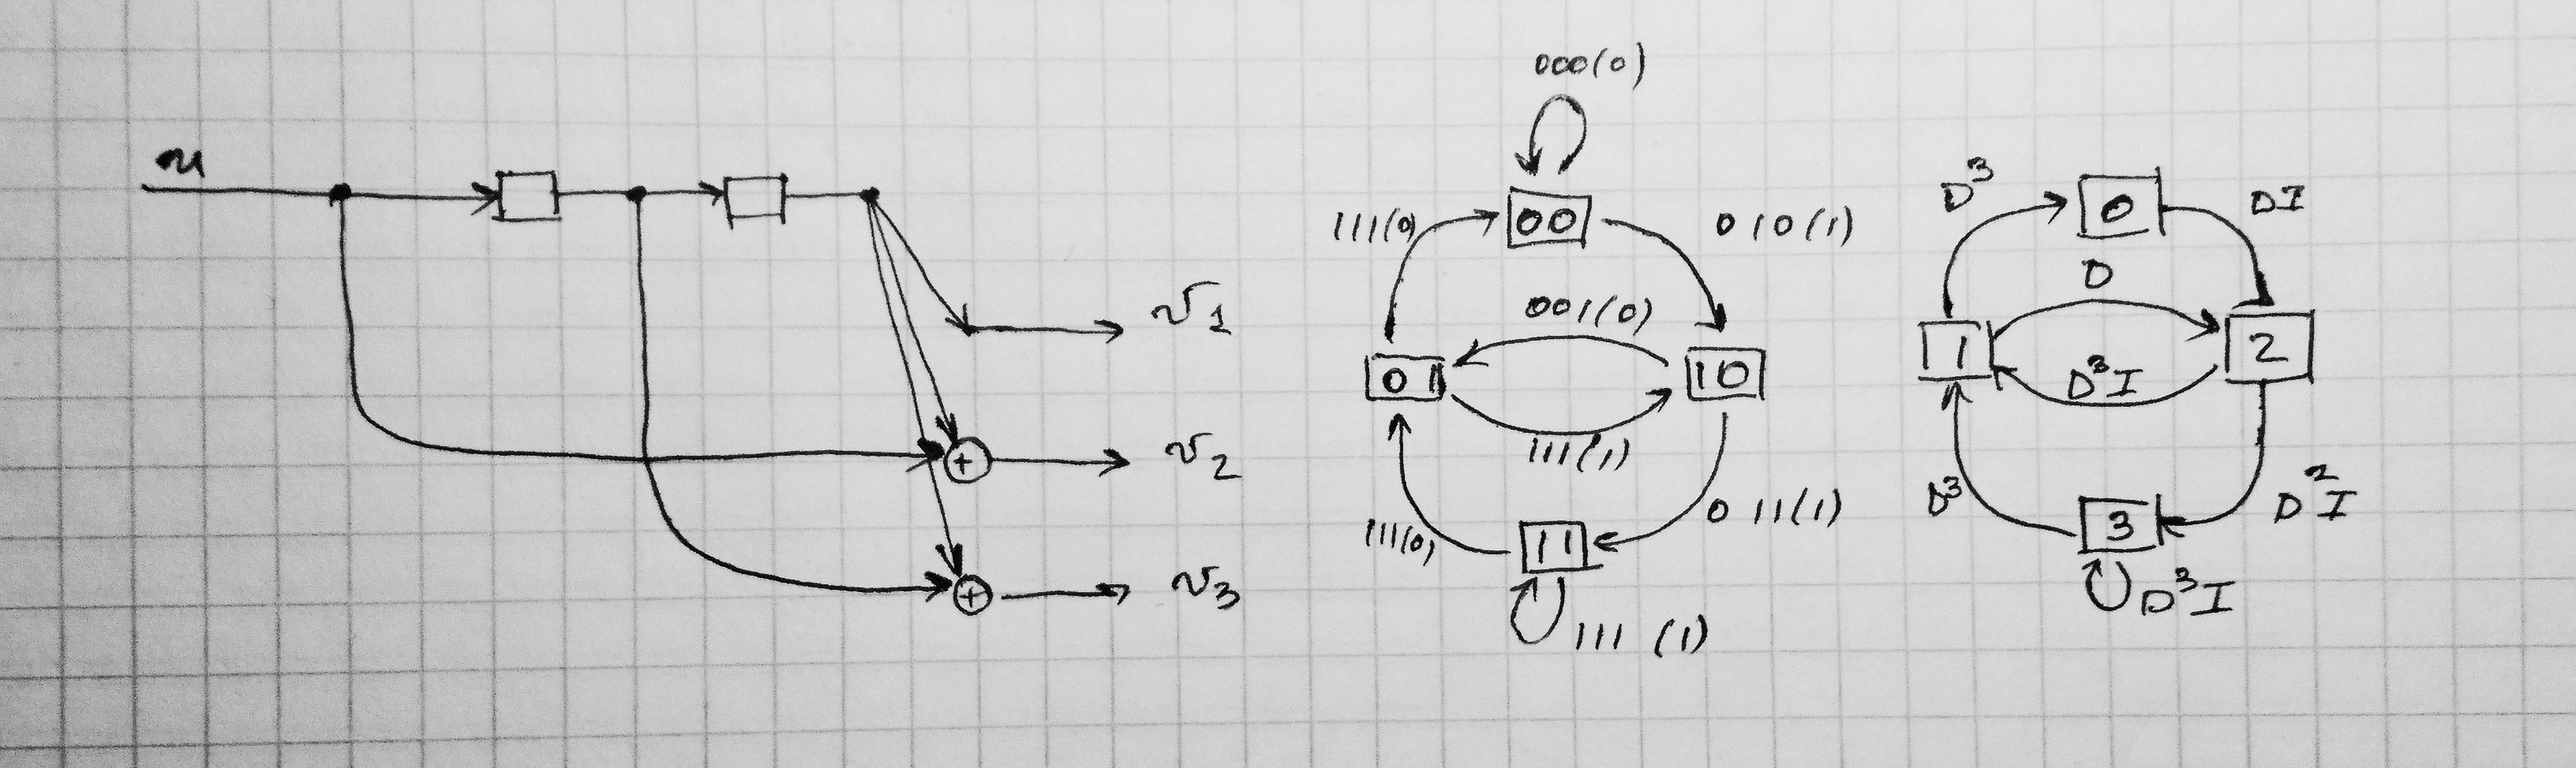
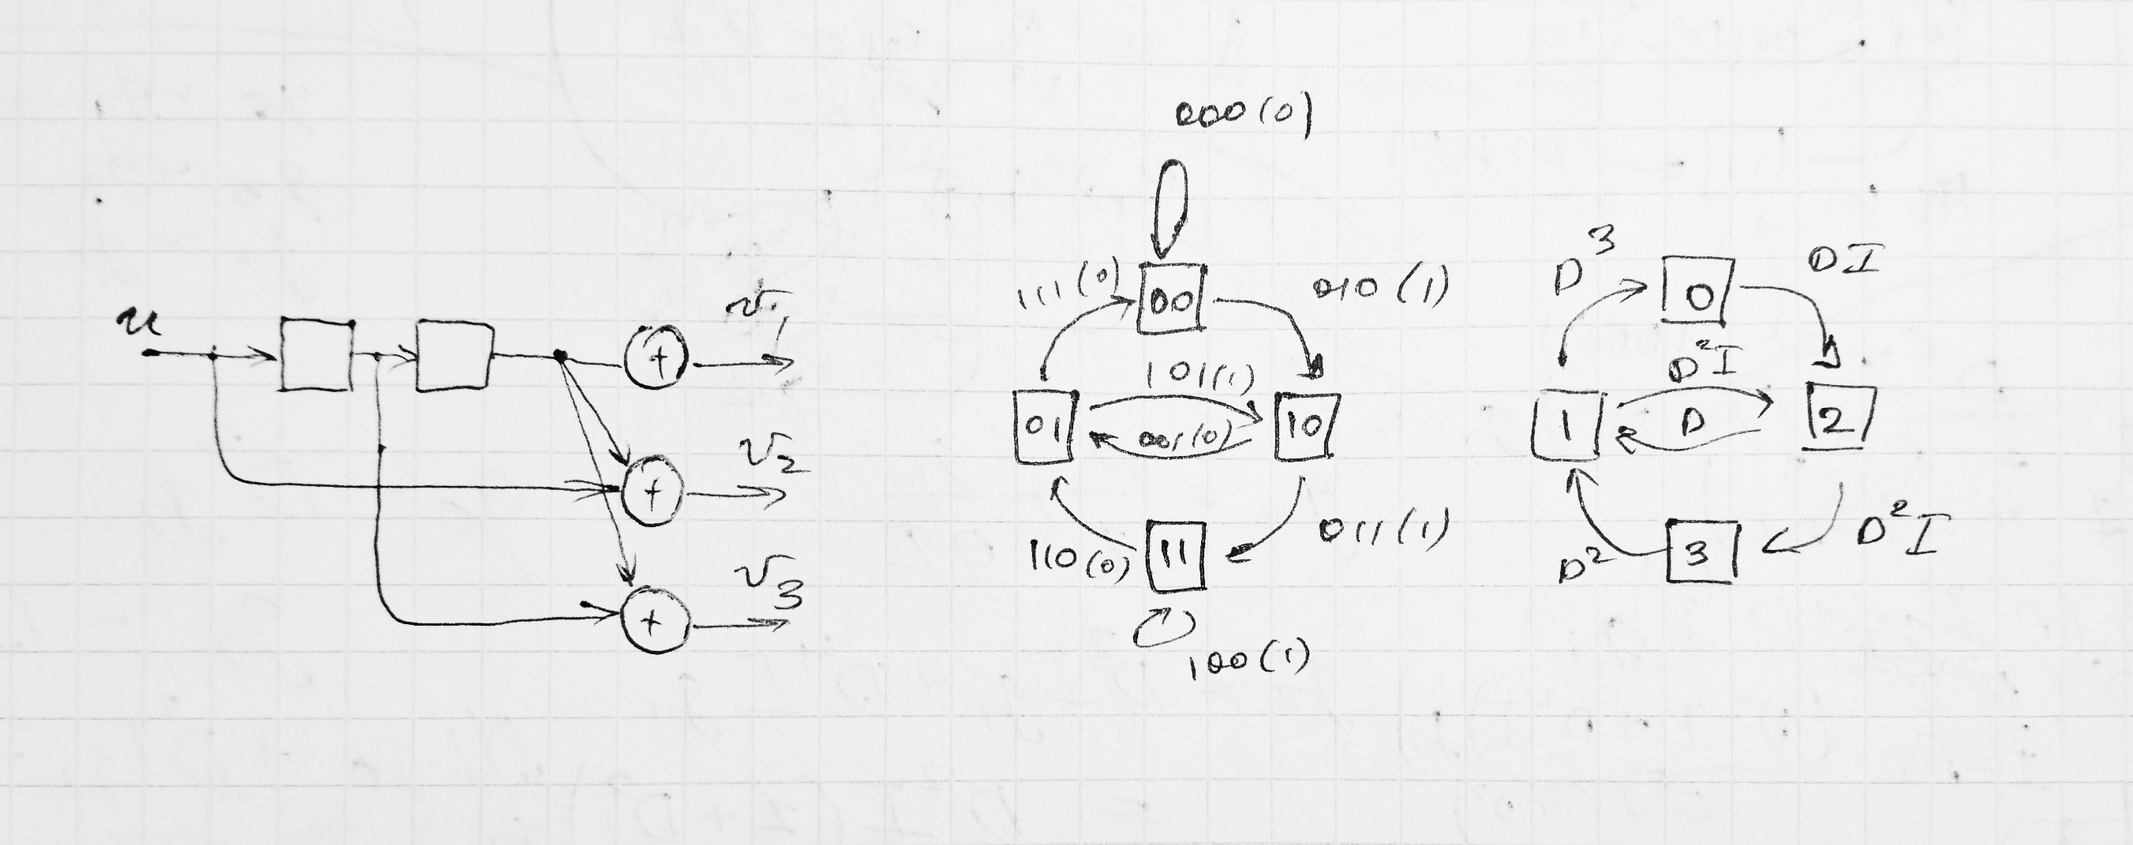
WIP

diff --git a/text/Part478.html b/text/Part478.html
@@ -3,7 +3,7 @@
 "http://www.w3.org/TR/xhtml1/DTD/xhtml1-strict.dtd">
 <html xmlns="http://www.w3.org/1999/xhtml" lang="en" xml:lang="en">
 <head>
-<!-- 2018-06-15 Fri 15:11 -->
+<!-- 2018-06-20 Wed 12:28 -->
 <meta http-equiv="Content-Type" content="text/html;charset=utf-8" />
 <meta name="viewport" content="width=device-width, initial-scale=1" />
 <title>Теория информации, решения задач части 4,7,8</title>
@@ -256,22 +256,22 @@ for the JavaScript code in this tag.
 <h2>Table of Contents</h2>
 <div id="text-table-of-contents">
 <ul>
-<li><a href="#org22a0fdd">1. Задание 4.2</a></li>
-<li><a href="#orgb81ab14">2. Задание 4.4</a></li>
-<li><a href="#orgd7ca3f1">3. Задание 7.1</a></li>
-<li><a href="#org9dab972">4. Задание 7.6</a></li>
-<li><a href="#org07193cd">5. Задания 8.6-8.7</a></li>
-<li><a href="#org7882e30">6. Задание 8.8</a></li>
+<li><a href="#orgd5bdd62">1. Задание 4.2</a></li>
+<li><a href="#org660bf0b">2. Задание 4.4</a></li>
+<li><a href="#orgc81cb90">3. Задание 7.1</a></li>
+<li><a href="#org1f549e0">4. Задание 7.6</a></li>
+<li><a href="#orge1eaef8">5. Задания 8.6-8.7</a></li>
+<li><a href="#org6ee17b5">6. Задание 8.8</a></li>
 </ul>
 </div>
 </div>
 <p>
 Весь код для решения задач доступен в открытом репозитории:
 <a href="https://github.com/volhovm/coding-theory-itmo-2017">https://github.com/volhovm/coding-theory-itmo-2017</a>, большая часть
-алгоритмов реализована в файле `Lib.hs`.
+алгоритмов реализована в файле <code>Lib.hs</code>.
 </p>
-<div id="outline-container-org22a0fdd" class="outline-2">
-<h2 id="org22a0fdd"><span class="section-number-2">1</span> Задание 4.2</h2>
+<div id="outline-container-orgd5bdd62" class="outline-2">
+<h2 id="orgd5bdd62"><span class="section-number-2">1</span> Задание 4.2</h2>
 <div class="outline-text-2" id="text-1">
 <p>
 Был написан код переборного декодирования по максимуму правдоподобия
@@ -314,8 +314,8 @@ for the JavaScript code in this tag.
 </p>
 </div>
 </div>
-<div id="outline-container-orgb81ab14" class="outline-2">
-<h2 id="orgb81ab14"><span class="section-number-2">2</span> Задание 4.4</h2>
+<div id="outline-container-org660bf0b" class="outline-2">
+<h2 id="org660bf0b"><span class="section-number-2">2</span> Задание 4.4</h2>
 <div class="outline-text-2" id="text-2">
 <p>
 Были написаны программы построения решеток (синдромной и через МСФ),
@@ -352,8 +352,8 @@ H =
 </div>
 </div>
 
-<div id="outline-container-orgd7ca3f1" class="outline-2">
-<h2 id="orgd7ca3f1"><span class="section-number-2">3</span> Задание 7.1</h2>
+<div id="outline-container-orgc81cb90" class="outline-2">
+<h2 id="orgc81cb90"><span class="section-number-2">3</span> Задание 7.1</h2>
 <div class="outline-text-2" id="text-3">
 <p>
 ЛРОС тривиально строится перебором для небольших значений длины
@@ -368,8 +368,8 @@ H =
 </p>
 </div>
 </div>
-<div id="outline-container-org9dab972" class="outline-2">
-<h2 id="org9dab972"><span class="section-number-2">4</span> Задание 7.6</h2>
+<div id="outline-container-org1f549e0" class="outline-2">
+<h2 id="org1f549e0"><span class="section-number-2">4</span> Задание 7.6</h2>
 <div class="outline-text-2" id="text-4">
 <p>
 Я реализиловал необходимые утилиты для построения БЧХ кодов и
@@ -437,8 +437,8 @@ g(x) &= 1 + x + x^2 + x^3 + x^6 + x^7 + x^9 + x^{15} + x^{16} + x^{17} + x^{18}
 </p>
 </div>
 </div>
-<div id="outline-container-org07193cd" class="outline-2">
-<h2 id="org07193cd"><span class="section-number-2">5</span> Задания 8.6-8.7</h2>
+<div id="outline-container-orge1eaef8" class="outline-2">
+<h2 id="orge1eaef8"><span class="section-number-2">5</span> Задания 8.6-8.7</h2>
 <div class="outline-text-2" id="text-5">
 <p>
 Мой вариант (87) предполагает работу со сверточным кодом \((4,5,6)\),
@@ -461,9 +461,9 @@ g(x) &= 1 + x + x^2 + x^3 + x^6 + x^7 + x^9 + x^{15} + x^{16} + x^{17} + x^{18}
 
 \begin{align*}
 g_0 &= D^3 g_1 \\
-g_1 &= D g_2 + D^3 g_3 \\
-g_2 &= D^3 I g_1 + D I \\
-g_3 &= D^2 I g_2 + D^3 I g_3
+g_1 &= D g_2 + D^2 g_3 \\
+g_2 &= D^2 I g_1 + D I \\
+g_3 &= D I g_3 + D^2 I g_2
 \end{align*}
 
 <p>
@@ -472,27 +472,33 @@ g_3 &= D^2 I g_2 + D^3 I g_3
 </p>
 
 \begin{align*}
-T(D,I) &= \frac{-D^5 I + D^8 I^2 - D^9 I^2}{-1 + D^3 I + D^4 I - D^7 I^2 + D^8 I^2} \\ \\
-F(D) &= \frac{- D^12 + D^11 + 2 D^9 - 2 D^8 + D^5}{(D^8 - D^7 + D^4 + D^3 - 1)^2}
+T(D,I) &= -\frac{D^5 I (1 - D I + D^3 I)}{-1 + D I + D^3 I - D^4 I^2 + D^6 I^2} \\ \\
+F(D) &= \frac{-d^9 + 2 d^8 + d^7 - 2 d^6 + d^5}{(d^6 - d^4 + d^3 + d - 1)^2}
 \end{align*}
 
 <p>
 Также сразу приложим вычисления необходимые для задания 8.7. Нам
-предлагается также построить графики оценки вероятности ошибки для
-кода со спектром, равным усеченному \(T(D,I)\). Для этого представим
-$T(D,I)$4 в виде ряда (по возрастающей степени \(I\)) и возьмем из
-него 10 и 5 элементов соответственно:
+предлагается построить графики оценки вероятности ошибки для кода со
+спектром, равным усеченному \(T(D,I)\). Для этого представим $T(D,I)$4
+в виде ряда (по возрастающей степени \(I\)) и возьмем из него 10 и 5
+элементов соответственно:
 </p>
 
 \begin{align*}
-T(D,I) = &D^5 I + 2 D^9 I^2 + D^{12} I^3 + 3 D^{13} I^3 + D^{15} I^4 +
-         2 D^{16} I^4 + 5 D^{17} I^4 + D^{18} I^5 + 2 D^{19} I^5 + \\
-         &5 D^{20} I^5 + D^{21} I^5 (I + 8) + 2 D^{22} I^6 +
-         6 D^{23} I^6 + D^{24} I^6 (I + 10) + O(D^{25})\\ \\
-T_5(D,I) = &D^5 I + 2 D^9 I^2 + D^{12} I^3 + 3 D^{13} I^3 + D^{15} I^4\\
-T_{10}(D,I) = &D^5 I + 2 D^9 I^2 + D^{12} I^3 + 3 D^{13} I^3 + D^{15} I^4 +
-         2 D^{16} I^4 + 5 D^{17} I^4 + D^{18} I^5 + 2 D^{19} I^5 + 5 D^{20} I^5
+T(D,I) = & D^5 I + 2 D^8 I^2 + D^9 I^3 + D^{10} I^4 + D^{11} I^3 (I^2 + 3) + \\
+         & D^{12} I^4 (I^2 + 2) + D^{13} I^5 (I^2 + 2) + D^{14} I^4 (I^4 + 2 I^2 + 5) + O(D^{15})
+\end{align*}
 
+<p>
+Как видим, разложение соответствует диаграмме &#x2013; несложно обнаружить
+один путь веса 5, два пути веса 8, и так далее. Усеченные
+производящие функции кода имеют вид:
+</p>
+
+\begin{align*}
+T_5(D,I) &= D^5 I + 2 D^8 I^2 + D^9 I^3 + D^{10} I^4 + 3 D^{11} I^5 \\
+T_{10}(D,I) &= D^5 I + 2 D^8 I^2 + D^9 I^3 + D^{10} I^4 + D^{11} I^3 (I^2 + 3) +
+               D^{12} I^4 (I^2 + 2) + D^{13} I^5 (I^2 + 2)
 \end{align*}
 
 <p>
@@ -500,9 +506,8 @@ T_{10}(D,I) = &D^5 I + 2 D^9 I^2 + D^{12} I^3 + 3 D^{13} I^3 + D^{15} I^4 +
 </p>
 
 \begin{align*}
-F_5(D) = &4 D^{15} + 9 D^{13} + 3 D^{12} + 4 D^9 + D^5\\
-F_{10}(D) = &25 D^{20} + 10 D^{19} + 5 D^{18} + 20 D^{17} + 8 D^{16} +
-          4 D^{15} + 9 D^{13} + 3 D^{12} + 4 D^9 + D^5
+F_{5}(D) &= D^5 + 4 D^8 + 3 D^9 + 4 D^{10} + 14 D^{11} \\
+F_{10}(D) &= D^5 + 4 D^8 + 3 D^9 + 4 D^{10} + 14 D^{11} + 14 D^{12} + 17 D^{13} + 40 D^{14} + 48 D^{15} + 62 D^{16}
 \end{align*}
 
 <p>
@@ -519,25 +524,55 @@ F_{10}(D) = &25 D^{20} + 10 D^{19} + 5 D^{18} + 20 D^{17} + 8 D^{16} +
 </div>
 
 <p>
-Оценке вероятности на ДСК соответствуют функции DSC (discrete
-stationary channel), на АБГШ &#x2013; AWGN (abstract white gaussian
-noise). Цифрам 5 и 10 соответствуют усеченные спектры кода. Как
-можно видеть из графика, оригинальные значения имеют выраженный
-спайк, а менее точные приближения (с точки зрения наличия меньшего
-количества элементов разложения) сглажены в этом месте. Кроме того,
-верхняя граница на вероятность ошибки у АБГШ существенно меньше &#x2013;
-впрочем, это не вызывает удивления (примерно такой же результат был
-получен и в (4.2)).
+На графике показана зависимость оценки вероятности ошибки на бит (ее
+логарифм, показаны показатели степени по основанию 10) от отношения
+сигнал/шум на сигнал (в дБ). Оценке вероятности на ДСК соответствуют
+функции DSC (discrete stationary channel), на АБГШ &#x2013; AWGN (abstract
+white gaussian noise). Цифрам 5 и 10 соответствуют усеченные спектры
+кода. Как можно видеть из графика, оригинальные значения имеют
+выраженный спайк, а менее точные приближения (с точки зрения наличия
+меньшего количества элементов разложения) сглажены в этом
+месте. Кроме того, верхняя граница на вероятность ошибки у АБГШ
+существенно меньше &#x2013; впрочем, это не вызывает удивления ( такой же
+результат был получен и в (4.2)).
 </p>
 </div>
 </div>
-<div id="outline-container-org7882e30" class="outline-2">
-<h2 id="org7882e30"><span class="section-number-2">6</span> Задание 8.8</h2>
+<div id="outline-container-org6ee17b5" class="outline-2">
+<h2 id="org6ee17b5"><span class="section-number-2">6</span> Задание 8.8</h2>
+<div class="outline-text-2" id="text-6">
+<p>
+В этом задании я реализовал декодер максимального правдоподобия для
+усеченного сверточного кода &#x2013; референс реализация через перебор
+всех кодовых слов и декодер Витерби (который работает, ожидаемо,
+быстрее). Далее экспериментальная ошибка на бит при декодировании
+была построена на графике для сравнения с экспериментальной верхней
+границей, полученной в предыдущем упражнении.
+</p>
+
+
+<div class="figure">
+<p><img src="./convolution_real.png" alt="convolution_real.png" width="75%" />
+</p>
+</div>
+
+<p>
+Как видим, верхняя граница действительно выше экспериментальных
+данных. Более того, граница при декодировании с АБГШ ближе к
+реальным данным, что и было предсказуемо ("&#x2026;при высоких отношениях
+сигнал/шум&#x2026;аддитивные оценки дают вполне приемлимые по точности
+результаты", стр. 239 учебника). В моих подсчетах я использовал
+усеченную решетку длины \(L = 5\) &#x2013; экспериментально удостоверился,
+что графики для более высоких значений почти не отличаются, но с
+которткими решетками существенно быстрее работает кодирование и
+декодирование.
+</p>
+</div>
 </div>
 </div>
 <div id="postamble" class="status">
 <p class="author">Author: Волхов Михаил, M4139</p>
-<p class="date">Created: 2018-06-15 Fri 15:11</p>
+<p class="date">Created: 2018-06-20 Wed 12:28</p>
 <p class="validation"><a href="http://validator.w3.org/check?uri=referer">Validate</a></p>
 </div>
 </body>
